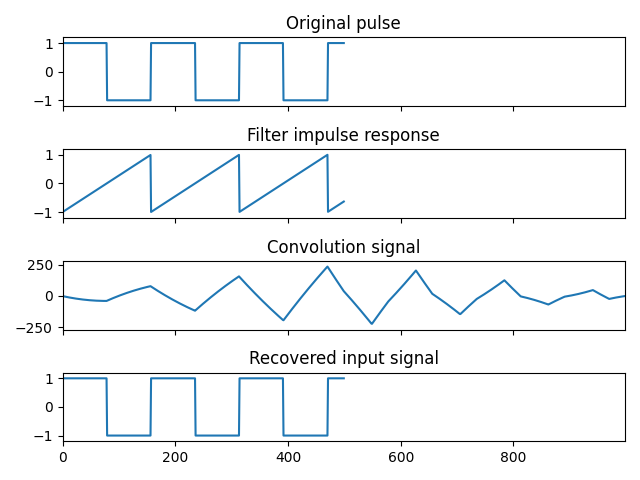
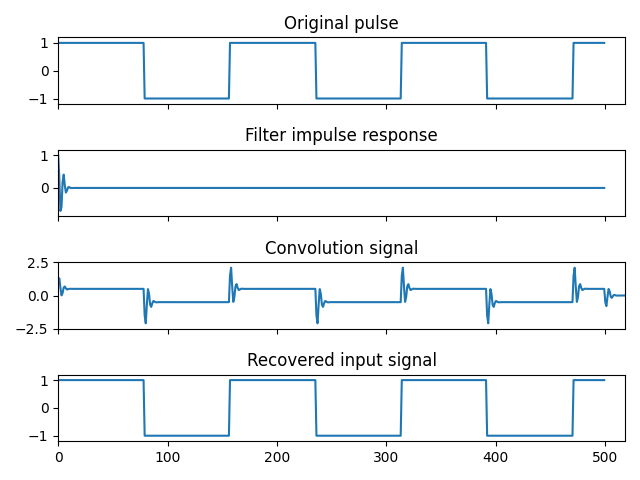
conv deconv sandbox now uses realistic IR

diff --git a/sandbox/conv_deconv/main.py b/sandbox/conv_deconv/main.py
@@ -7,8 +7,7 @@ t = np.linspace(0, 20, 500)
 
 
 sig1 = signal.square(t)
-sig2 = signal.sawtooth(t)
-
+sig2 = signal.gausspulse(t[:20], fc=5)
 
 conv_sig = signal.convolve(sig1, sig2)
 
@@ -19,7 +18,7 @@ fig, (ax_orig, ax_win, ax_filt, ax_rec) = plt.subplots(4, 1, sharex=True)
 ax_orig.plot(sig1)
 ax_orig.set_title('Original pulse')
 ax_orig.margins(0, 0.1)
-ax_win.plot(sig2)
+ax_win.plot(np.append(sig2, np.zeros(500-20)))
 ax_win.set_title('Filter impulse response')
 ax_win.margins(0, 0.1)
 ax_filt.plot(conv_sig)
